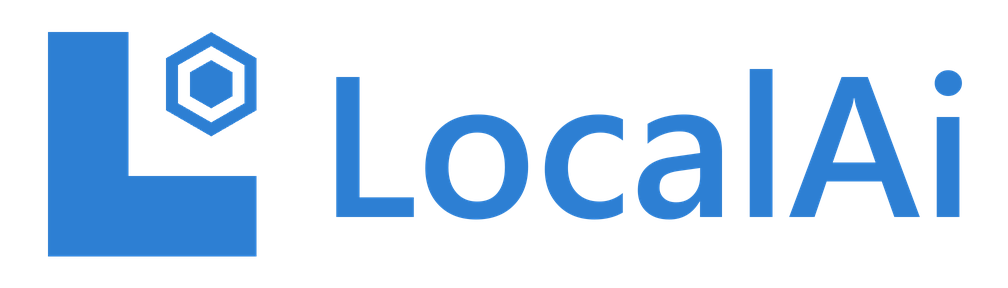
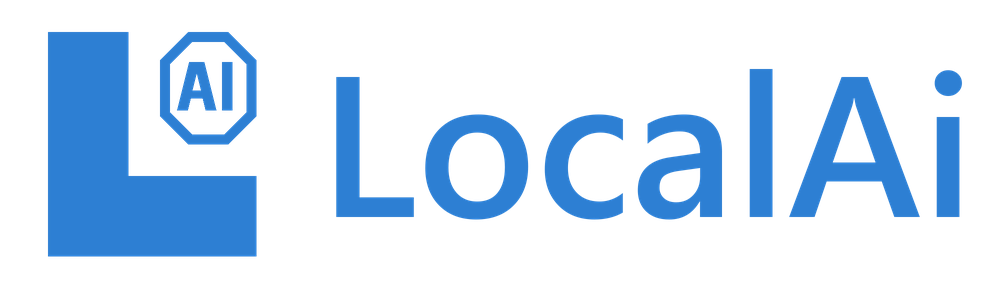
Frame AI in an octagon beside the L
The owner replaced the seal of three hexagons with an octagonal frame
around the letters AI. The frame's top is level with the L's top and its
right edge with the L's right edge, and it stands as far from the stem as
from the foot (32). The corner the L leaves is 16 taller than it is wide,
so the frame is 96 by 112 with every corner cut by 28. The letters are
ink on a hole, like the rest of the mark, and are centred by the white
beside them rather than by their box, since A and I differ in width.

assets/localai-mark.svg holds the geometry; scripts/build-mark.py
rebuilds localai.ico, docs/images/localai-mark.png and the lockup from
it, now with the 16, 24 and 32 frames set by hand. The installer's rail
draws the same geometry.

TheMarkFramesItsLettersTests holds the frame to the owner's rules - an
octagon, level with the L, equal gaps, equal corner cuts, the letters
inside - and the rail to the SVG. Brand.xaml no longer says MarkInk
equals the dark AccentFill, which moved to #2878C8 in #665.

Changed region(s): [[0.1538, 0.0938, 0.2768, 0.5312]]

diff --git a/src/LocalAi.Installer/MainWindow.xaml b/src/LocalAi.Installer/MainWindow.xaml
@@ -137,18 +137,20 @@
                         <ColumnDefinition Width="Auto" />
                         <ColumnDefinition Width="*" />
                     </Grid.ColumnDefinitions>
-                    <!-- The icon's own geometry, not a second drawing of it: the seal's
-                         ring is a hole, which an even-odd figure expresses, so the rail and
-                         assets/localai.ico cannot drift apart. MarkInk rather than AccentFill,
+                    <!-- The icon's own geometry, not a second drawing of it: the inside of the
+                         frame and the A's counter are holes, which an even-odd figure expresses,
+                         so the rail and assets/localai.ico cannot drift apart. MarkInk rather than AccentFill,
                          because the palette's accent is one colour in light and another in
                          dark, and a mark that changed with the theme would disagree with the
                          icon in the title bar above it. Themes/Brand.xaml says the rest. -->
                     <Path Grid.Column="0" Width="24" Height="24" Stretch="Uniform"
                           Fill="{StaticResource MarkInk}"
                           Data="F0 M0,0 H80 V144 H208 V224 H0 Z
-                                M163,0 L208,26 V78 L163,104 L118,78 V26 Z
-                                M163,14 L196,33 V71 L163,90 L130,71 V33 Z
-                                M163,28 L184,40 V64 L163,76 L142,64 V40 Z" />
+                                M140,0 H180 L208,28 V84 L180,112 H140 L112,84 V28 Z
+                                M144,10 H176 L198,32 V80 L176,102 H144 L122,80 V32 Z
+                                M141,30 H156 L168,78 H157.5 L154.5,66 H142.5 L139.5,78 H129 Z
+                                M148.5,42 L152.5,58 H144.5 Z
+                                M174,30 H184 V78 H174 Z" />
                     <!-- A picture cannot say "LocalAi", and this rail is the only place the
                          wizard names the product. The mark joins the wordmark; it does not
                          replace it. -->

diff --git a/src/LocalAi.Installer/Themes/Brand.xaml b/src/LocalAi.Installer/Themes/Brand.xaml
@@ -10,8 +10,8 @@
     followed the theme would agree with the window it sits in and disagree with the icon two
     inches above it.
 
-    MarkInk carries the same value as the dark palette's AccentFill and is kept apart from it on
-    purpose: sharing the key would let a palette decision repaint the product's mark. It is the
+    MarkInk was the dark palette's AccentFill until that moved to #2878C8; it is kept apart on
+    purpose, and that move is why: sharing the key would have repainted the product's mark. It is the
     one colour in the palette that clears 3:1 against a light taskbar and a dark one alike -
     3.72 and 3.95 - which is why the mark wears it on both rather than having a version for each.
     The light palette's Accent gives 2.87 on a dark taskbar and cannot be used here.

diff --git a/scripts/build-mark.py b/scripts/build-mark.py
@@ -4,9 +4,10 @@ Run by hand, not by the build and not by CI:
 
     python scripts/build-mark.py
 
-It exists because two of the seven icon frames are set pixel by pixel and cannot be recovered
-from the master geometry. Reduce the master to 16 and the seal is a smudge; reduce it to 24 and
-the ring that makes a seal a seal goes soft. Those two frames live below as literal ASCII, which
+It exists because three of the seven icon frames are set pixel by pixel and cannot be recovered
+from the master geometry. Reduce the master to 16 and there is no room inside the frame for a
+letter; reduce it to 24 or 32 and the frame and the letters, a pixel wide at those sizes, go
+soft. Those three frames live below as literal ASCII, which
 is the only form in which the next person can see what was decided - inside a .ico they exist
 only as bytes, and the first rebuild that re-reduces all seven loses them without a word.
 
@@ -24,13 +25,19 @@ from PIL import Image, ImageDraw, ImageFont
 INK = "#2D7FD3"
 SUPERSAMPLE = 4
 
-# The mark on a 256 canvas, origin top-left, y down. The L is variant 9 unchanged; the seal is
-# three pointy-top hexagons on centre (187,68) with circumradii 52 / 38 / 24, its right flat
-# flush with the L's right edge at x=232 and its apex level with the L's top at y=16.
+# The mark on a 256 canvas, origin top-left, y down. The L is variant 9 unchanged; the frame is
+# an octagon 96 by 112 with every corner cut by 28, level with the L's top and right edges and 32
+# clear of the stem and the foot, its ring 10 thick. A and I stand in it in ink, centred by the
+# white beside them rather than by their box, and the A's counter is a hole.
 L_BLOCK = [(24, 16), (104, 16), (104, 160), (232, 160), (232, 240), (24, 240)]
-SEAL_OUTER = [(187, 16), (232, 42), (232, 94), (187, 120), (142, 94), (142, 42)]
-SEAL_RING = [(187, 30), (220, 49), (220, 87), (187, 106), (154, 87), (154, 49)]
-SEAL_CORE = [(187, 44), (208, 56), (208, 80), (187, 92), (166, 80), (166, 56)]
+FRAME_OUTER = [(164, 16), (204, 16), (232, 44), (232, 100),
+               (204, 128), (164, 128), (136, 100), (136, 44)]
+FRAME_INNER = [(168, 26), (200, 26), (222, 48), (222, 96),
+               (200, 118), (168, 118), (146, 96), (146, 48)]
+LETTER_A = [(165, 46), (180, 46), (192, 94), (181.5, 94),
+            (178.5, 82), (166.5, 82), (163.5, 94), (153, 94)]
+A_COUNTER = [(172.5, 58), (176.5, 74), (168.5, 74)]
+LETTER_I = [(198, 46), (208, 46), (208, 94), (198, 94)]
 
 # The 48 frame is drawn from the master shifted half a pixel left. Without it the L's three
 # vertical edges land on 4.5, 19.5 and 43.5, and every vertical edge in the mark becomes a soft
@@ -40,13 +47,13 @@ HALF_PIXEL_AT_48 = -256 / 48 / 2
 # Hand-set. Read them as pictures - that is the point of keeping them this way.
 GRID_16 = """
 ................
-.#####....##....
 .#####...####...
-.#####..######..
-.#####..######..
-.#####..######..
+.#####..#....#..
+.#####..#.##.#..
+.#####..#.##.#..
+.#####..#.##.#..
+.#####..#....#..
 .#####...####...
-.#####....##....
 .#####..........
 .#####..........
 .#############..
@@ -60,16 +67,16 @@ GRID_16 = """
 GRID_24 = """
 ........................
 ........................
-..########......###.....
-..########.....#...#....
-..########....#.###.#...
-..########...#.#####.#..
-..########...#.#####.#..
-..########...#.#####.#..
-..########...#.#####.#..
-..########....#.###.#...
-..########.....#...#....
-..########......###.....
+..########.....#####....
+..########....#.....#...
+..########...#..#..#.#..
+..########...#.#.#.#.#..
+..########...#.#.#.#.#..
+..########...#.###.#.#..
+..########...#.#.#.#.#..
+..########...#.#.#.#.#..
+..########....#.....#...
+..########.....#####....
 ..########..............
 ..########..............
 ..########..............
@@ -82,6 +89,41 @@ GRID_24 = """
 ..####################..
 ..####################..
 ........................
+"""
+
+GRID_32 = """
+................................
+................................
+...##########.......######......
+...##########......#......#.....
+...##########.....#........#....
+...##########....#..........#...
+...##########....#...#...#..#...
+...##########....#..#.#..#..#...
+...##########....#..#.#..#..#...
+...##########....#.#####.#..#...
+...##########....#.#...#.#..#...
+...##########....#.#...#.#..#...
+...##########....#..........#...
+...##########.....#........#....
+...##########......#......#.....
+...##########.......######......
+...##########...................
+...##########...................
+...##########...................
+...##########...................
+...##########################...
+...##########################...
+...##########################...
+...##########################...
+...##########################...
+...##########################...
+...##########################...
+...##########################...
+...##########################...
+...##########################...
+................................
+................................
 """
 
 
@@ -110,11 +152,13 @@ def master(dx=0.0):
         draw.polygon([((x + dx) * SUPERSAMPLE, y * SUPERSAMPLE) for x, y in points], fill=fill)
 
     polygon(L_BLOCK, INK)
-    polygon(SEAL_OUTER, INK)
-    # Knocked out rather than white: tile-less, a white ring is invisible on a light taskbar,
-    # and a hole is the same shape on every surface because it is the surface.
-    polygon(SEAL_RING, (0, 0, 0, 0))
-    polygon(SEAL_CORE, INK)
+    polygon(FRAME_OUTER, INK)
+    # Holes rather than white: tile-less, white is invisible on a light taskbar, and a hole is
+    # the same shape on every surface because it is the surface.
+    polygon(FRAME_INNER, (0, 0, 0, 0))
+    polygon(LETTER_A, INK)
+    polygon(A_COUNTER, (0, 0, 0, 0))
+    polygon(LETTER_I, INK)
     return image
 
 
@@ -127,7 +171,7 @@ def frames():
     return {
         16: from_grid(GRID_16),
         24: from_grid(GRID_24),
-        32: reduced(32),
+        32: from_grid(GRID_32),
         48: reduced(48, HALF_PIXEL_AT_48),
         64: reduced(64),
         128: reduced(128),
@@ -203,9 +247,10 @@ LOCKUP = (1008, 288)
 LOCKUP_MARK_ORIGIN = (48, 32)      # where the mark's ink box starts
 LOCKUP_FONT = r"C:\Windows\Fonts\seguisb.ttf"
 LOCKUP_FONT_SIZE = 200
-# 80 units from the mark's ink to the text's ink: twice the moat inside the mark, because a
-# lockup's join has to be visibly wider than the space within the mark or the seal reads as part
-# of the word spacing. The baseline centres the text's ink on the mark's ink centre.
+# 80 units from the mark's ink to the text's ink: the L's own stroke, two and a half times the 32
+# between the frame and the L, because a lockup's join has to be visibly wider than any space
+# within the mark or the frame reads as part of the word spacing. The baseline centres the
+# text's ink on the mark's ink centre.
 LOCKUP_BASELINE = (319, 217)
 
 
@@ -218,9 +263,11 @@ def lockup(scale=2):
         draw.polygon([((x + dx) * scale, (y + dy) * scale) for x, y in points], fill=fill)
 
     polygon(L_BLOCK, INK)
-    polygon(SEAL_OUTER, INK)
-    polygon(SEAL_RING, (0, 0, 0, 0))
-    polygon(SEAL_CORE, INK)
+    polygon(FRAME_OUTER, INK)
+    polygon(FRAME_INNER, (0, 0, 0, 0))
+    polygon(LETTER_A, INK)
+    polygon(A_COUNTER, (0, 0, 0, 0))
+    polygon(LETTER_I, INK)
 
     font = ImageFont.truetype(LOCKUP_FONT, LOCKUP_FONT_SIZE * scale)
     draw.text(
@@ -241,7 +288,7 @@ def main():
     lockup().save(root / "assets" / "localai-lockup.png", format="PNG")
 
     print("frames: " + ", ".join(str(size) for size in sorted(built)))
-    for size in (16, 24):
+    for size in (16, 24, 32):
         ink = built[size].getchannel("A").point(
             lambda a: 255 if a > 127 else 0).histogram()[255]
         print("hand-set %d: %d ink pixels" % (size, ink))

diff --git a/tests/LocalAi.Installer.Tests/TheMarkFramesItsLettersTests.cs b/tests/LocalAi.Installer.Tests/TheMarkFramesItsLettersTests.cs
@@ -1,0 +1,123 @@
+using System.Globalization;
+using System.Text.RegularExpressions;
+using System.Xml.Linq;
+
+namespace LocalAi.Installer.Tests;
+
+/// <summary>
+/// The mark is an L and, in the corner it leaves, an octagonal frame around AI: level with the
+/// L's top and its right edge, and as far from the stem as from the foot. The rail draws the
+/// icon's own geometry, so the two cannot drift apart.
+/// </summary>
+public sealed class TheMarkFramesItsLettersTests
+{
+    private static readonly XNamespace Presentation = "http://schemas.microsoft.com/winfx/2006/xaml/presentation";
+
+    [Fact]
+    public void The_frame_is_an_octagon_level_with_the_L_and_as_far_from_its_stem_as_from_its_foot()
+    {
+        var shapes = Subpaths(MarkData());
+        var l = shapes[0];
+        var frame = shapes[1];
+        var top = l.Min(point => point.Y);
+        var right = l.Max(point => point.X);
+        var stem = l.Where(point => point.Y == top).Max(point => point.X);
+        var foot = l.Where(point => point.X == right).Min(point => point.Y);
+
+        Assert.Equal(8, frame.Count);
+        Assert.Equal(top, frame.Min(point => point.Y));
+        Assert.Equal(right, frame.Max(point => point.X));
+        Assert.True(frame.Min(point => point.X) - stem > 0);
+        Assert.Equal(frame.Min(point => point.X) - stem, foot - frame.Max(point => point.Y));
+    }
+
+    [Fact]
+    public void Every_corner_of_the_frame_is_cut_by_the_same_amount()
+    {
+        var frame = Subpaths(MarkData())[1];
+        var cuts = frame
+            .Select((point, index) => (From: point, To: frame[(index + 1) % frame.Count]))
+            .Where(edge => edge.From.X != edge.To.X && edge.From.Y != edge.To.Y)
+            .Select(edge => (Dx: Math.Abs(edge.To.X - edge.From.X), Dy: Math.Abs(edge.To.Y - edge.From.Y)))
+            .ToArray();
+
+        Assert.Equal(4, cuts.Length);
+        Assert.All(cuts, cut => Assert.Equal(cut.Dx, cut.Dy));
+        Assert.Single(cuts.Select(cut => cut.Dx).Distinct());
+    }
+
+    [Fact]
+    public void The_letters_stand_inside_the_frame()
+    {
+        var shapes = Subpaths(MarkData());
+        var inside = shapes[2];
+
+        Assert.Equal(8, inside.Count);
+        Assert.All(shapes.Skip(3).SelectMany(shape => shape), point =>
+        {
+            Assert.InRange(point.X, inside.Min(p => p.X), inside.Max(p => p.X));
+            Assert.InRange(point.Y, inside.Min(p => p.Y), inside.Max(p => p.Y));
+        });
+    }
+
+    [Fact]
+    public void The_rail_draws_the_icons_own_geometry()
+    {
+        var rail = XDocument.Parse(InstallerMarkup.Read("MainWindow.xaml"))
+            .Descendants(Presentation + "Path")
+            .Single(path => path.Attribute("Fill")?.Value == "{StaticResource MarkInk}")
+            .Attribute("Data")!.Value;
+        var mark = Subpaths(MarkData());
+        var left = mark[0].Min(point => point.X);
+        var top = mark[0].Min(point => point.Y);
+
+        Assert.Equal(
+            mark.Select(shape => shape.Select(point => (point.X - left, point.Y - top)).ToArray()).ToArray(),
+            Subpaths(rail.Replace("F0", "", StringComparison.Ordinal)).Select(shape => shape.ToArray()).ToArray());
+    }
+
+    private static string MarkData() =>
+        XDocument.Load(Path.Combine(InstallerMarkup.Directory, "..", "..", "assets", "localai-mark.svg"))
+            .Descendants(XNamespace.Get("http://www.w3.org/2000/svg") + "path")
+            .Single()
+            .Attribute("d")!.Value;
+
+    /// <summary>The corners of each closed figure, for the absolute M, L, H, V and Z the mark is written in.</summary>
+    private static List<List<(double X, double Y)>> Subpaths(string data)
+    {
+        var tokens = Regex.Matches(data, @"[MLHVZ]|-?\d+(?:\.\d+)?", RegexOptions.CultureInvariant)
+            .Select(match => match.Value)
+            .ToList();
+        var shapes = new List<List<(double X, double Y)>>();
+        var at = (X: 0.0, Y: 0.0);
+        double Number(ref int index) => double.Parse(tokens[++index], CultureInfo.InvariantCulture);
+        for (var index = 0; index < tokens.Count; index++)
+        {
+            switch (tokens[index])
+            {
+                case "M":
+                    at = (Number(ref index), Number(ref index));
+                    shapes.Add([at]);
+                    break;
+                case "L":
+                    at = (Number(ref index), Number(ref index));
+                    shapes[^1].Add(at);
+                    break;
+                case "H":
+                    at = (Number(ref index), at.Y);
+                    shapes[^1].Add(at);
+                    break;
+                case "V":
+                    at = (at.X, Number(ref index));
+                    shapes[^1].Add(at);
+                    break;
+                case "Z":
+                    break;
+                default:
+                    throw new InvalidDataException($"Unexpected path token '{tokens[index]}'.");
+            }
+        }
+
+        return shapes;
+    }
+}
